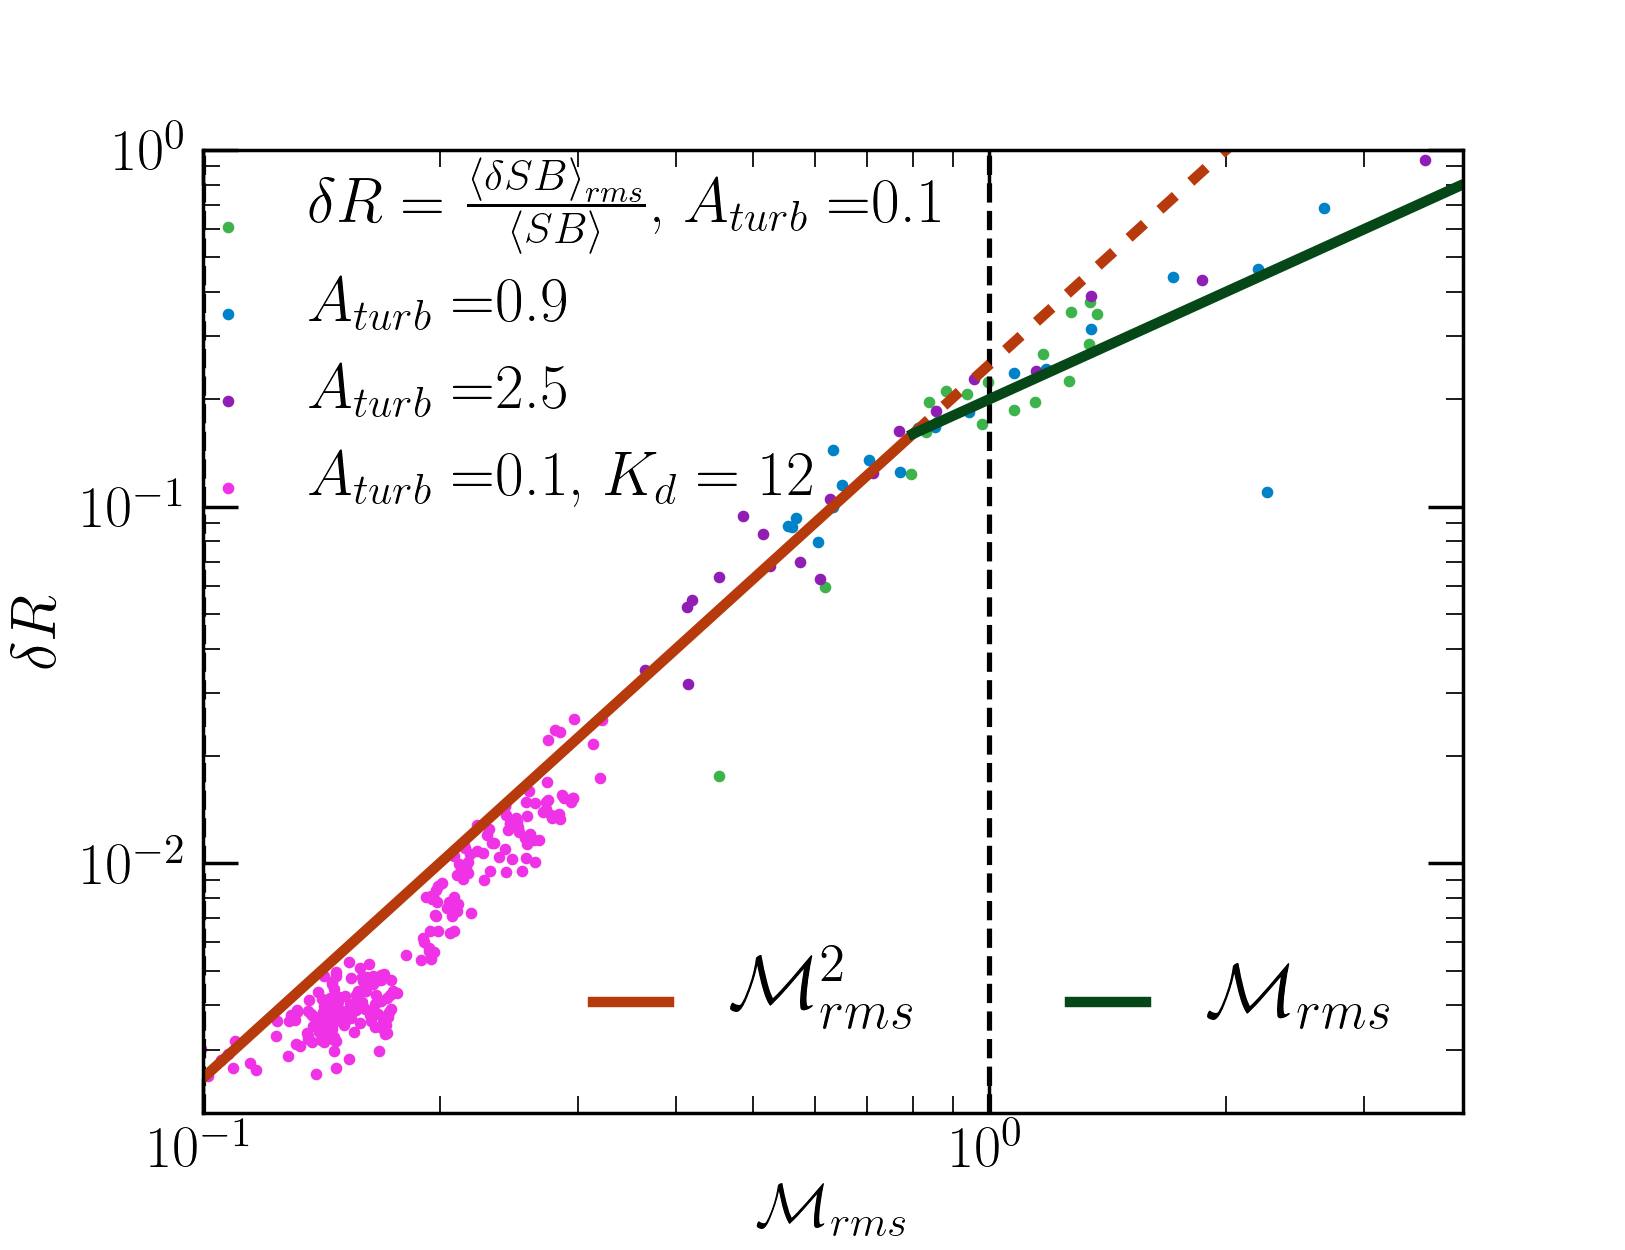
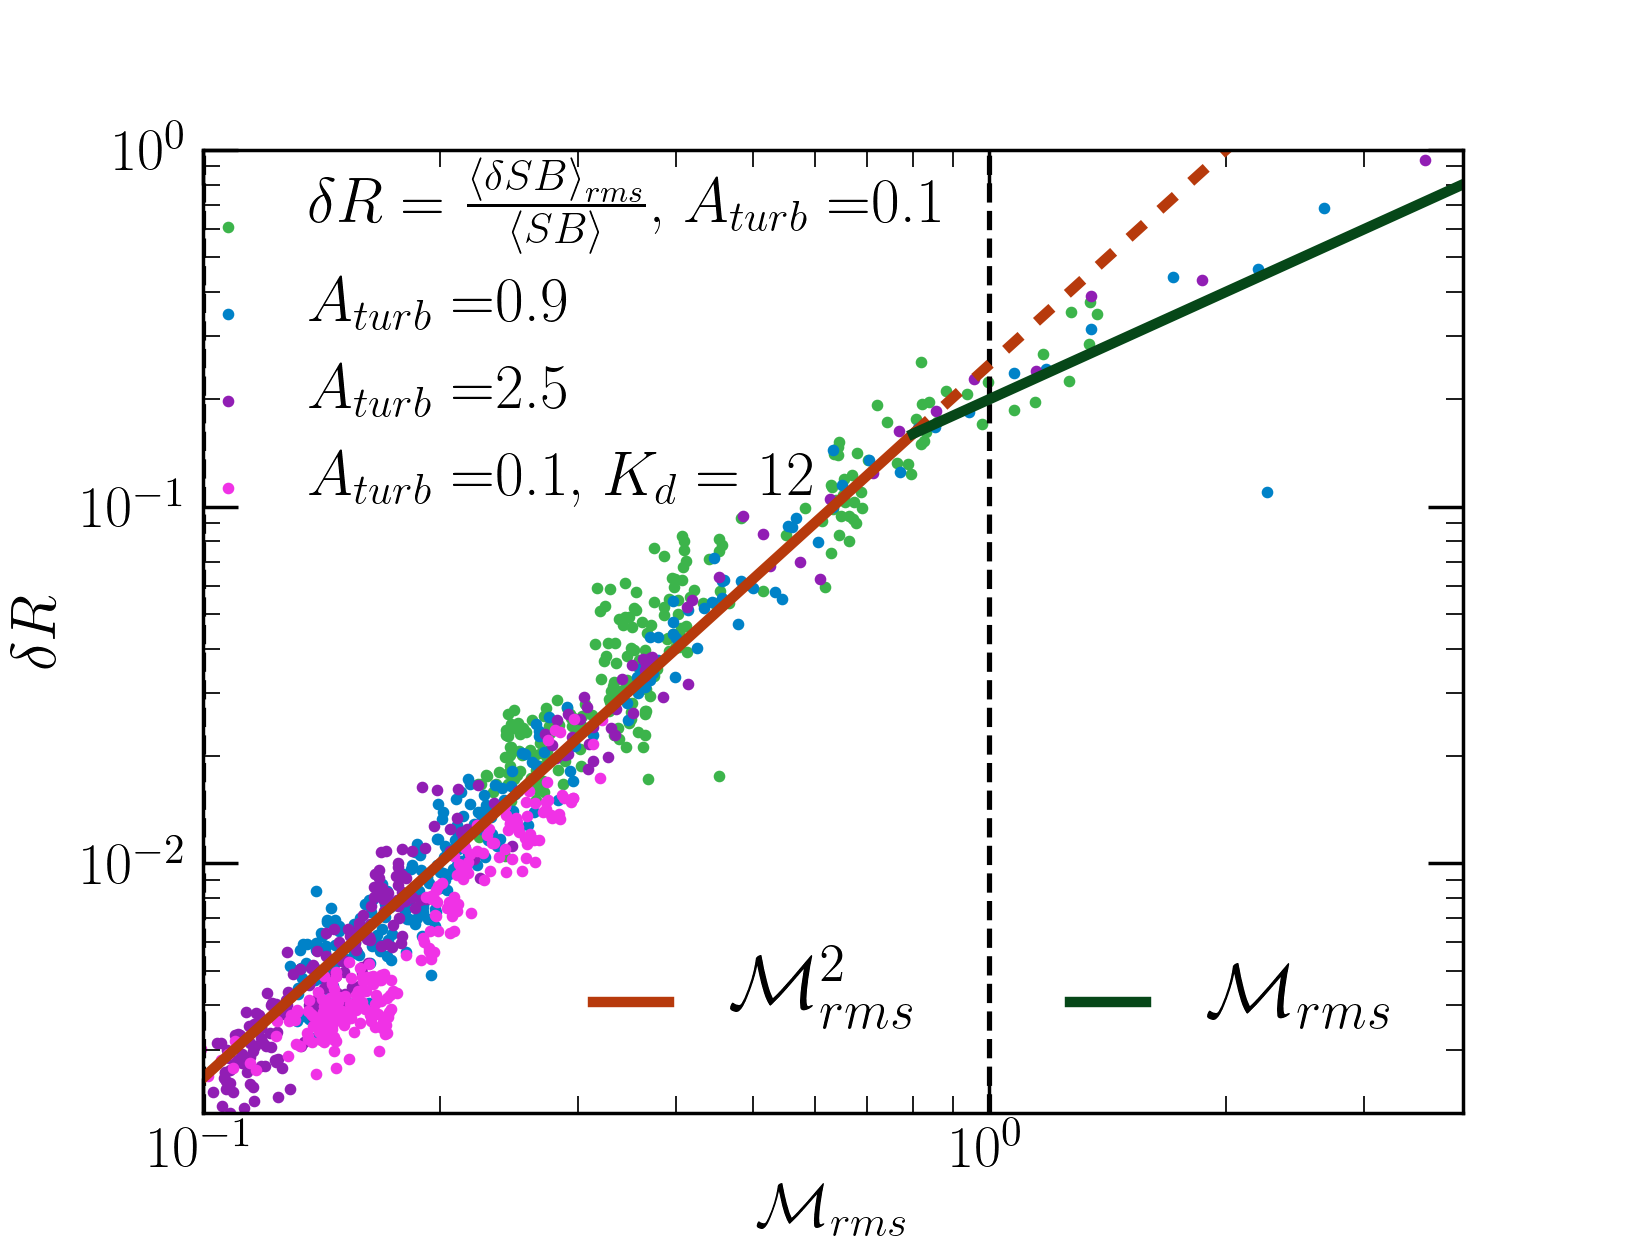
Edited plots

Changed region(s): [[0.1231, 0.4056, 0.4923, 0.9048], [0.4923, 0.312, 0.5846, 0.4368]]

diff --git a/surface_brightness/sb_mach_fiducial.py b/surface_brightness/sb_mach_fiducial.py
@@ -21,7 +21,7 @@ plt.rc('text', usetex=True)
 #Load data files
 amp=np.array((0.1,0.9,2.5,0.1))
 start=np.array((2.0,0.4,0.2,2.0))
-end=np.array((6.2, 4.8, 4.6, 50.))
+end=np.array((50., 50., 50., 50.))
 step_size=0.2
 perturb = [None] * (amp.size)
 fit = [None] * 2
